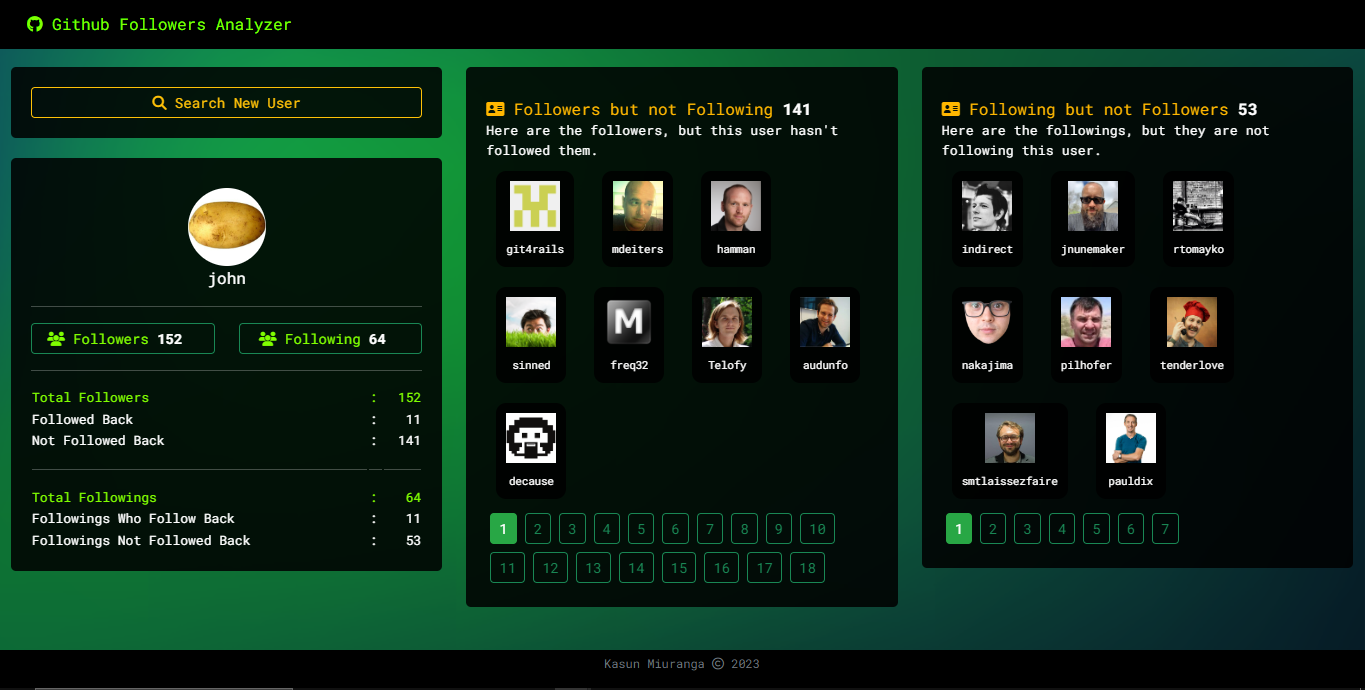
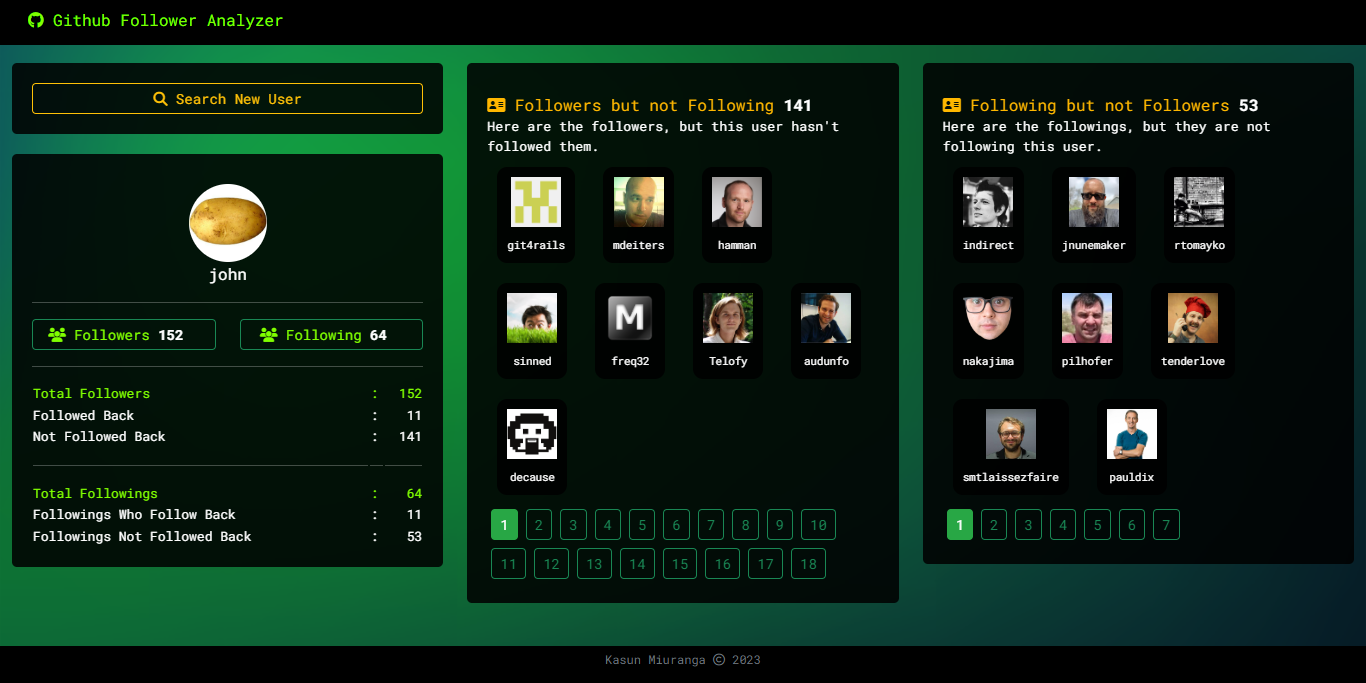
update

diff --git a/index.html b/index.html
@@ -2,7 +2,7 @@
 <html>
 
 <head>
-    <title>Github Followers Analyzer</title>
+    <title>Github Follower Analyzer</title>
     <meta name="viewport" content="width=device-width, initial-scale=1, shrink-to-fit=no">
 
     <link rel="icon" type="image/png" href="img/fav.ico">
@@ -36,7 +36,7 @@
         <nav class="navbar navbar-expand-lg bg-black fixed-top" style="background-color: black;">
             <div class="container-fluid">
                 <a class="navbar-brand" style=" color:chartreuse; font-size: 100%;">
-                    <i class="fa-brands fa-github ml-3"></i> Github Followers Analyzer</a>
+                    <i class="fa-brands fa-github ml-3"></i> Github Follower Analyzer</a>
             </div>
         </nav>
     </header>
